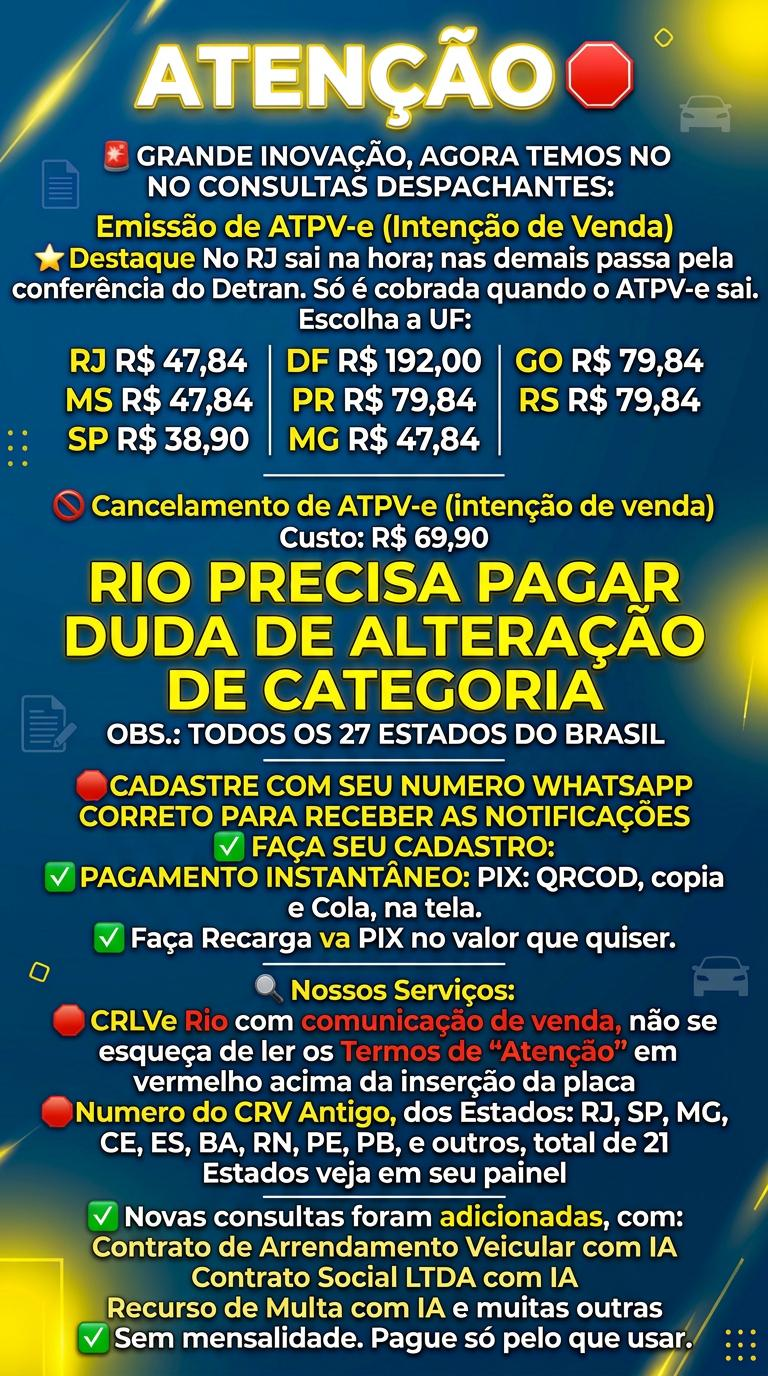
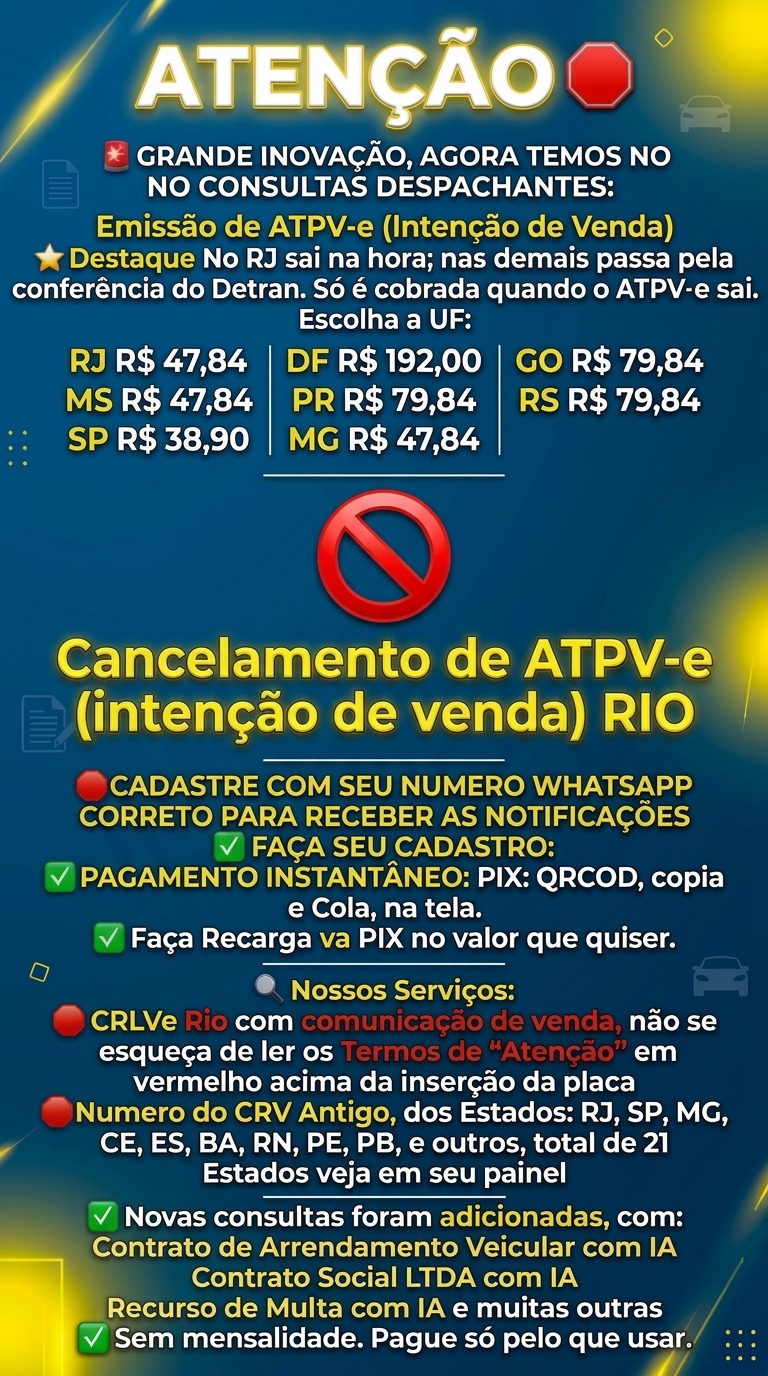
Broadcast: imagem nova da campanha e linha do cancelamento de ATPV-e Rio no texto

diff --git a/server.js b/server.js
@@ -19705,7 +19705,8 @@ app.get('/admin', requirePageAuth, async (req, res) => {
 const BROADCAST_CAMPANHA = {
   imagem: path.join(__dirname, 'assets', 'promo-plataforma.jpg'),
   mensagem:
-`🛑ATENÇÃO AGORA VOCÊ PODE SER PARCEIRO DA PLATAFORMA COM SUA PRÓPRIA PÁGINA, E GANHAR DINHEIRO VENDENDO CONSULTAS, E MAIS, A SUA PÁGINA TAMBÉM PODE TER DOMÍNIO PRÓPRIO EX:.https://despachantejoaodascoves.com.br (kkk) CLARO QUE COM SEU NOME OU EMPRESA.
+`🛑CANCELAMENTO DE INTENÇÃO (ATPVe) RIO, PRECISA PAGAR DUDA DE ALTERAÇÃO DE CARCTERISTICA
+🛑ATENÇÃO AGORA VOCÊ PODE SER PARCEIRO DA PLATAFORMA COM SUA PRÓPRIA PÁGINA, E GANHAR DINHEIRO VENDENDO CONSULTAS, E MAIS, A SUA PÁGINA TAMBÉM PODE TER DOMÍNIO PRÓPRIO EX:.https://despachantejoaodascoves.com.br (kkk) CLARO QUE COM SEU NOME OU EMPRESA.
 Só na Despachante consultas você tem tantas opções de consultas
 Vá e veja você mesmo, nossa plataforma de consultas é hoje um das mais completas, ela te afasta da burocracia dos DETRAN's
 👉 https://www.despachantesconsultas.com.br`,
